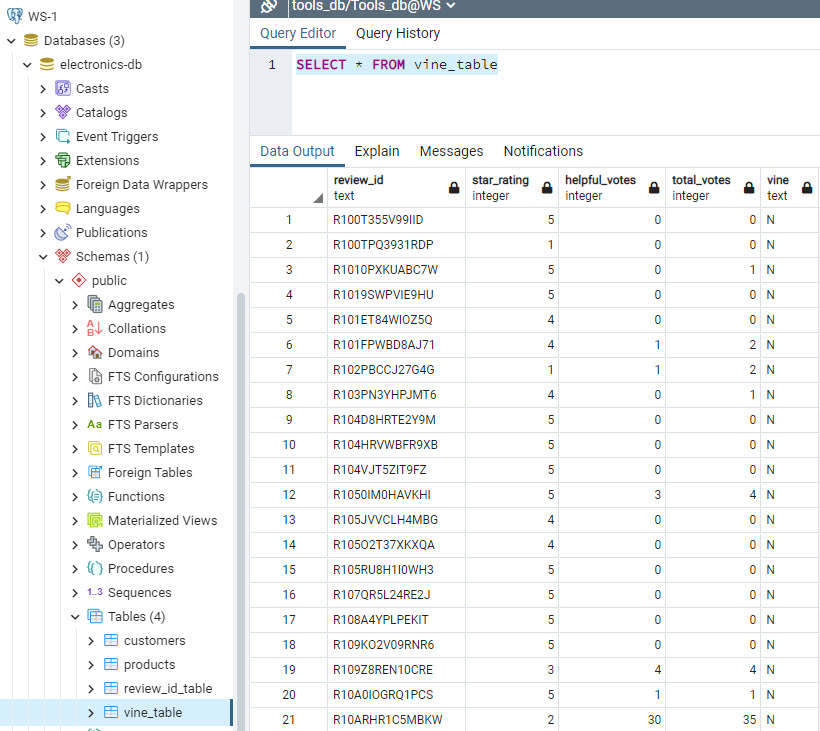
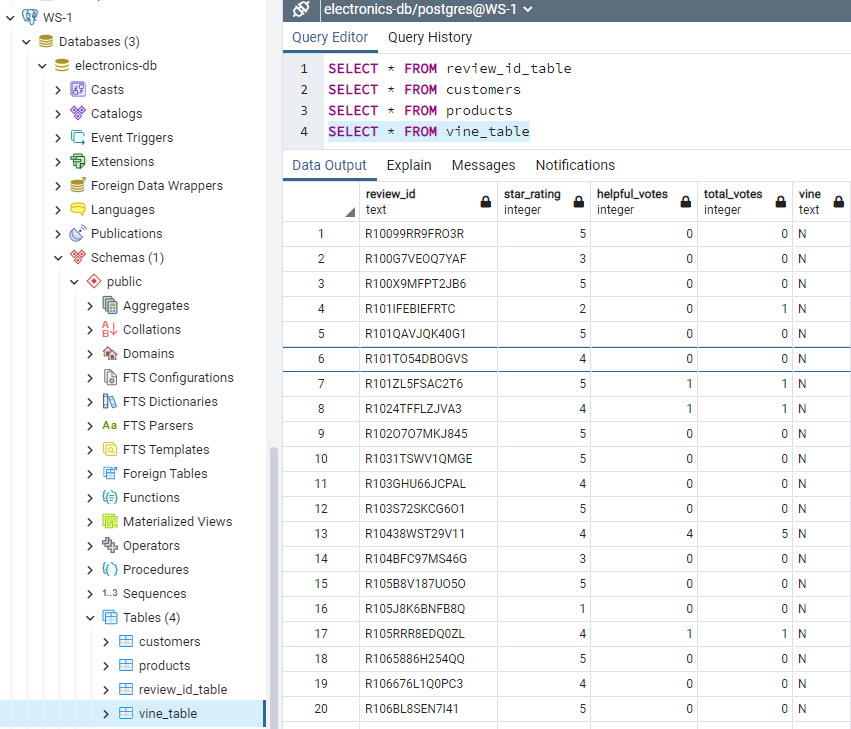
Readme and images

Changed region(s): [[0.0, 0.0, 1.0, 1.0]]

diff --git a/README.md b/README.md
@@ -1,1 +1,90 @@
 # Amazon-s_big_data
+<p align="center">
+  <img src=".\Images\stars.png" />
+
+## Background
+
+In this assignment you will put your ETL skills to the test. Many of Amazon's shoppers depend on product reviews to make a purchase. Amazon makes these datasets publicly available. However, they are quite large and can exceed the capacity of local machines to handle. One dataset alone contains over 1.5 million rows; with over 40 datasets, this can be quite taxing on the average local computer. Your first goal for this assignment will be to perform the ETL process completely in the cloud and upload a DataFrame to an RDS instance. The second goal will be to use PySpark or SQL to perform a statistical analysis of selected data.
+
+There are two levels to this homework assignment. The second level is optional but highly recommended.
+
+## LEVEL 1 - It's all about Tools
+<table><tr>
+<td style="vertical-align:top"> 
+  <p align="center">
+    <img alt="Forwarding" src=".\SQL\Level 1\customers.jpg" width="300">
+    <br>
+  </p> 
+</td>
+<td style="vertical-align:top"> 
+  <p align="center">
+    <img alt="Routing" src=".\SQL\Level 1\products.jpg" width="440">
+    <br>
+  </p> 
+</td>
+</tr></table>
+<table><tr>
+<td style="vertical-align:top"> 
+  <p align="center">
+    <img alt="Forwarding" src=".\SQL\Level 1\review_id_table.jpg" width="360">
+    <br>
+  </p> 
+</td>
+<td style="vertical-align:top"> 
+  <p align="center">
+    <img alt="Routing" src=".\SQL\Level 1\vine_table.jpg" width="300">
+    <br>
+  </p> 
+</td>
+</tr></table>
+
+## LEVEL 2 - It's all about Electronic
+<table><tr>
+<td style="vertical-align:top"> 
+  <p align="center">
+    <img alt="Forwarding" src=".\SQL\Level 2\customers.jpg" width="300">
+    <br>
+  </p> 
+</td>
+<td style="vertical-align:top"> 
+  <p align="center">
+    <img alt="Routing" src=".\SQL\Level 2\products.jpg" width="480">
+    <br>
+  </p> 
+</td>
+</tr></table>
+<table><tr>
+<td style="vertical-align:top"> 
+  <p align="center">
+    <img alt="Forwarding" src=".\SQL\Level 2\review_id_table.jpg" width="360">
+    <br>
+  </p> 
+</td>
+<td style="vertical-align:top"> 
+  <p align="center">
+    <img alt="Routing" src=".\SQL\Level 2\vine_table.jpg" width="300">
+    <br>
+  </p> 
+</td>
+</tr></table>
+
+## THE ANALYSIS
+
+The averages of the paid-for vines are not any better than non-vine; the Tools group has a slily higher average. In the same way, the proportion of the five stars' reviews for vine and no-vine do not biased being between 43% to 63% of the total reviews.
+<table><tr>
+<td style="vertical-align:top"> 
+  <p align="center">
+    <img alt="Forwarding" src=".\SQL\Level 1\Tools_db.jpg" width="400">
+    <br>
+  </p> 
+</td>
+<td style="vertical-align:top"> 
+  <p align="center">
+    <img alt="Routing" src=".\SQL\Level 2\elctronics_db.jpg" width="400">
+    <br>
+  </p> 
+</td>
+</tr></table>
+
+<p align="left">
+  <img src=".\Images\Results.jpg"  width="400" />
